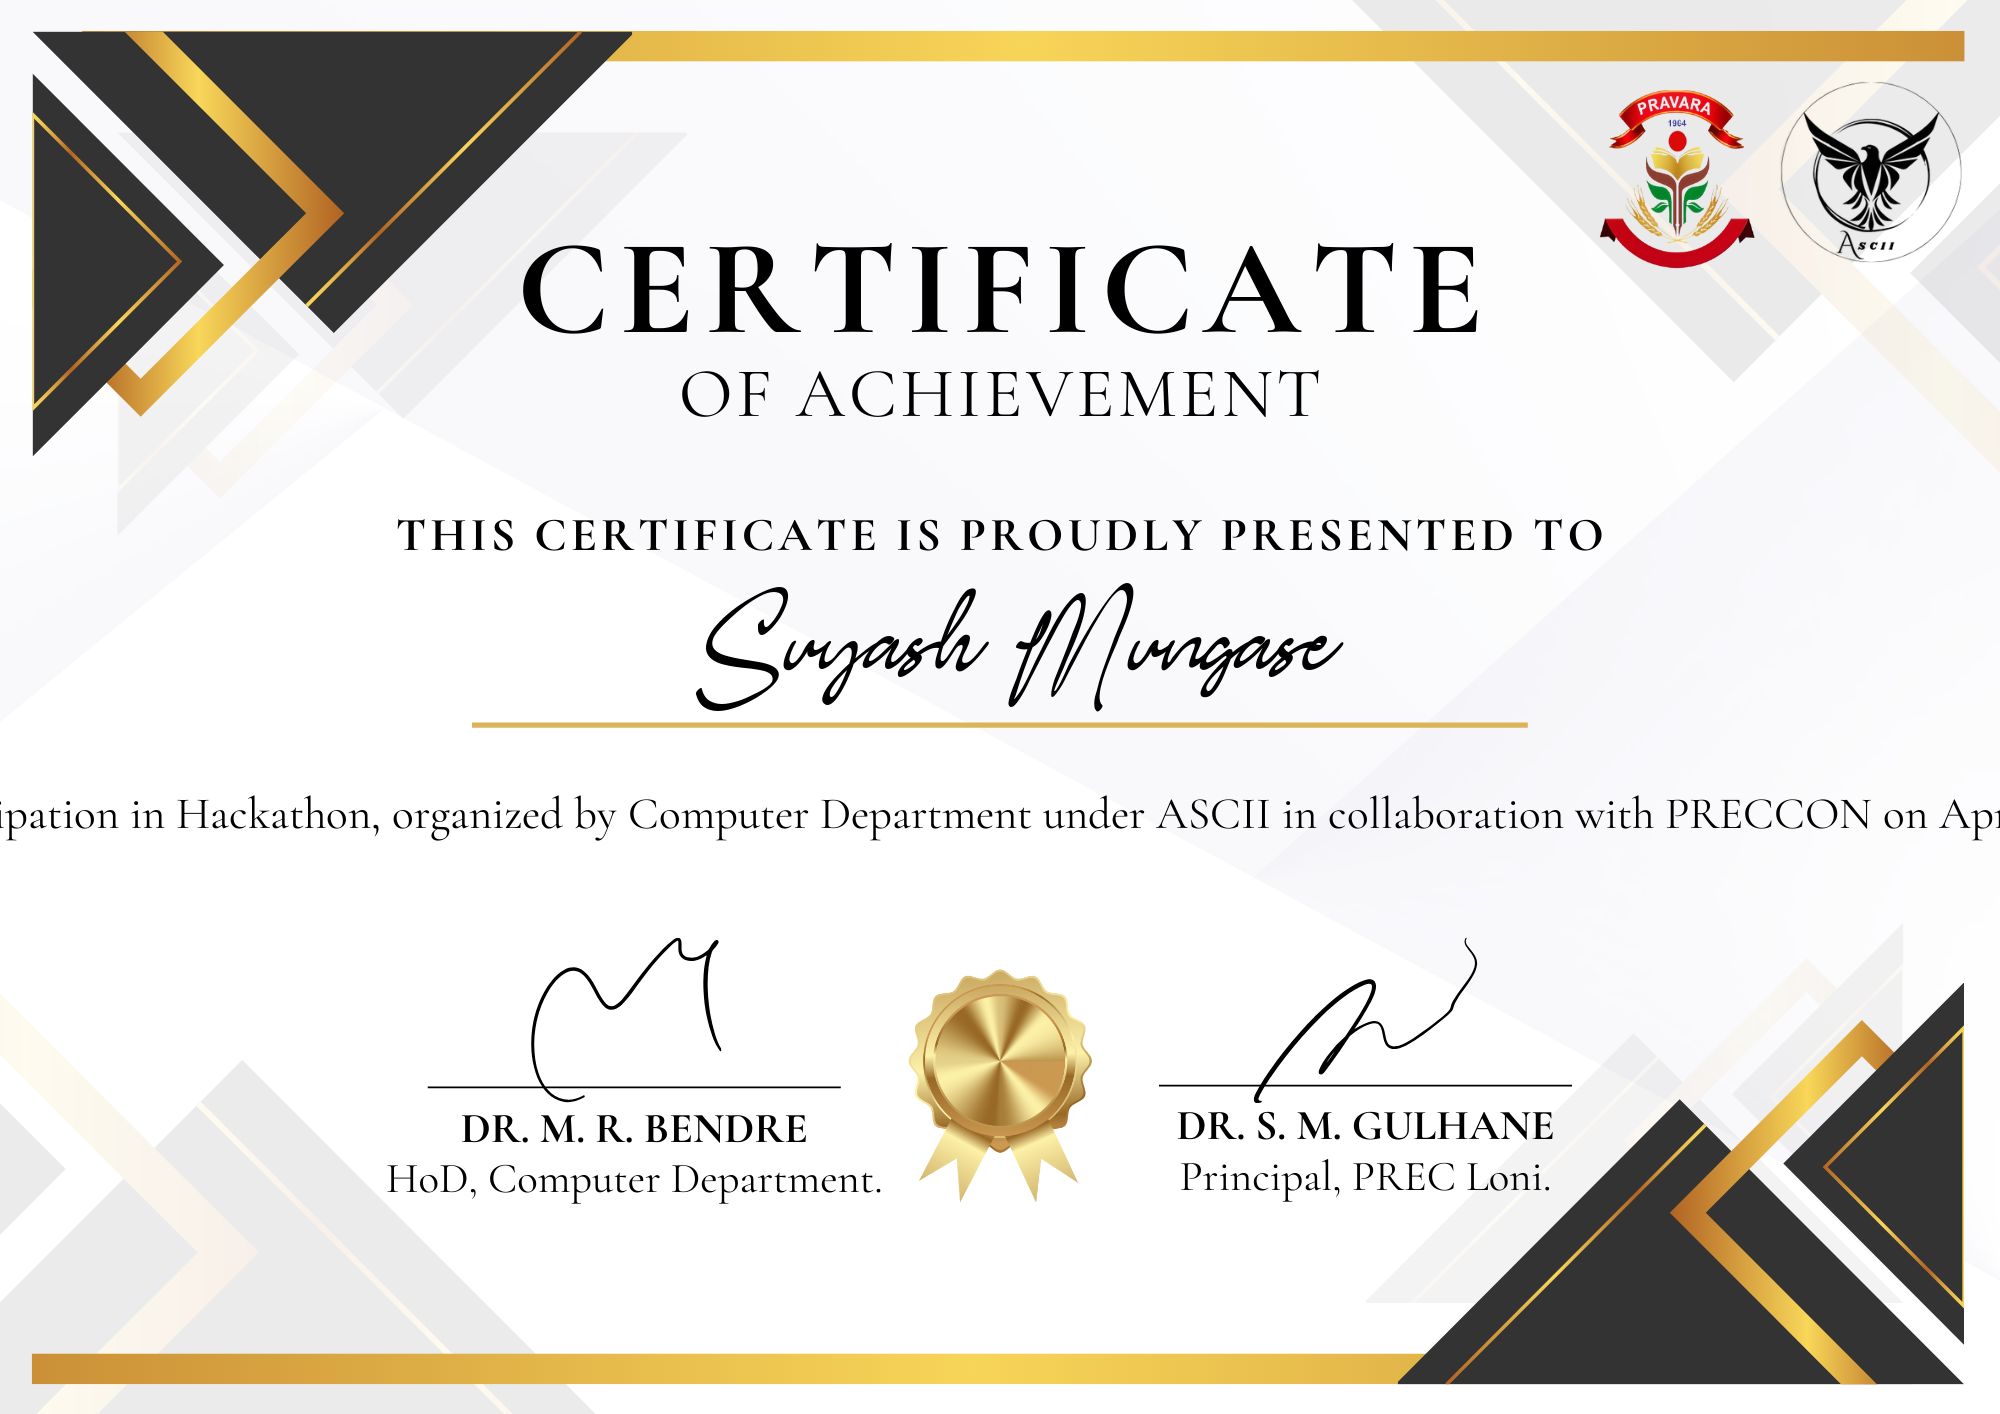
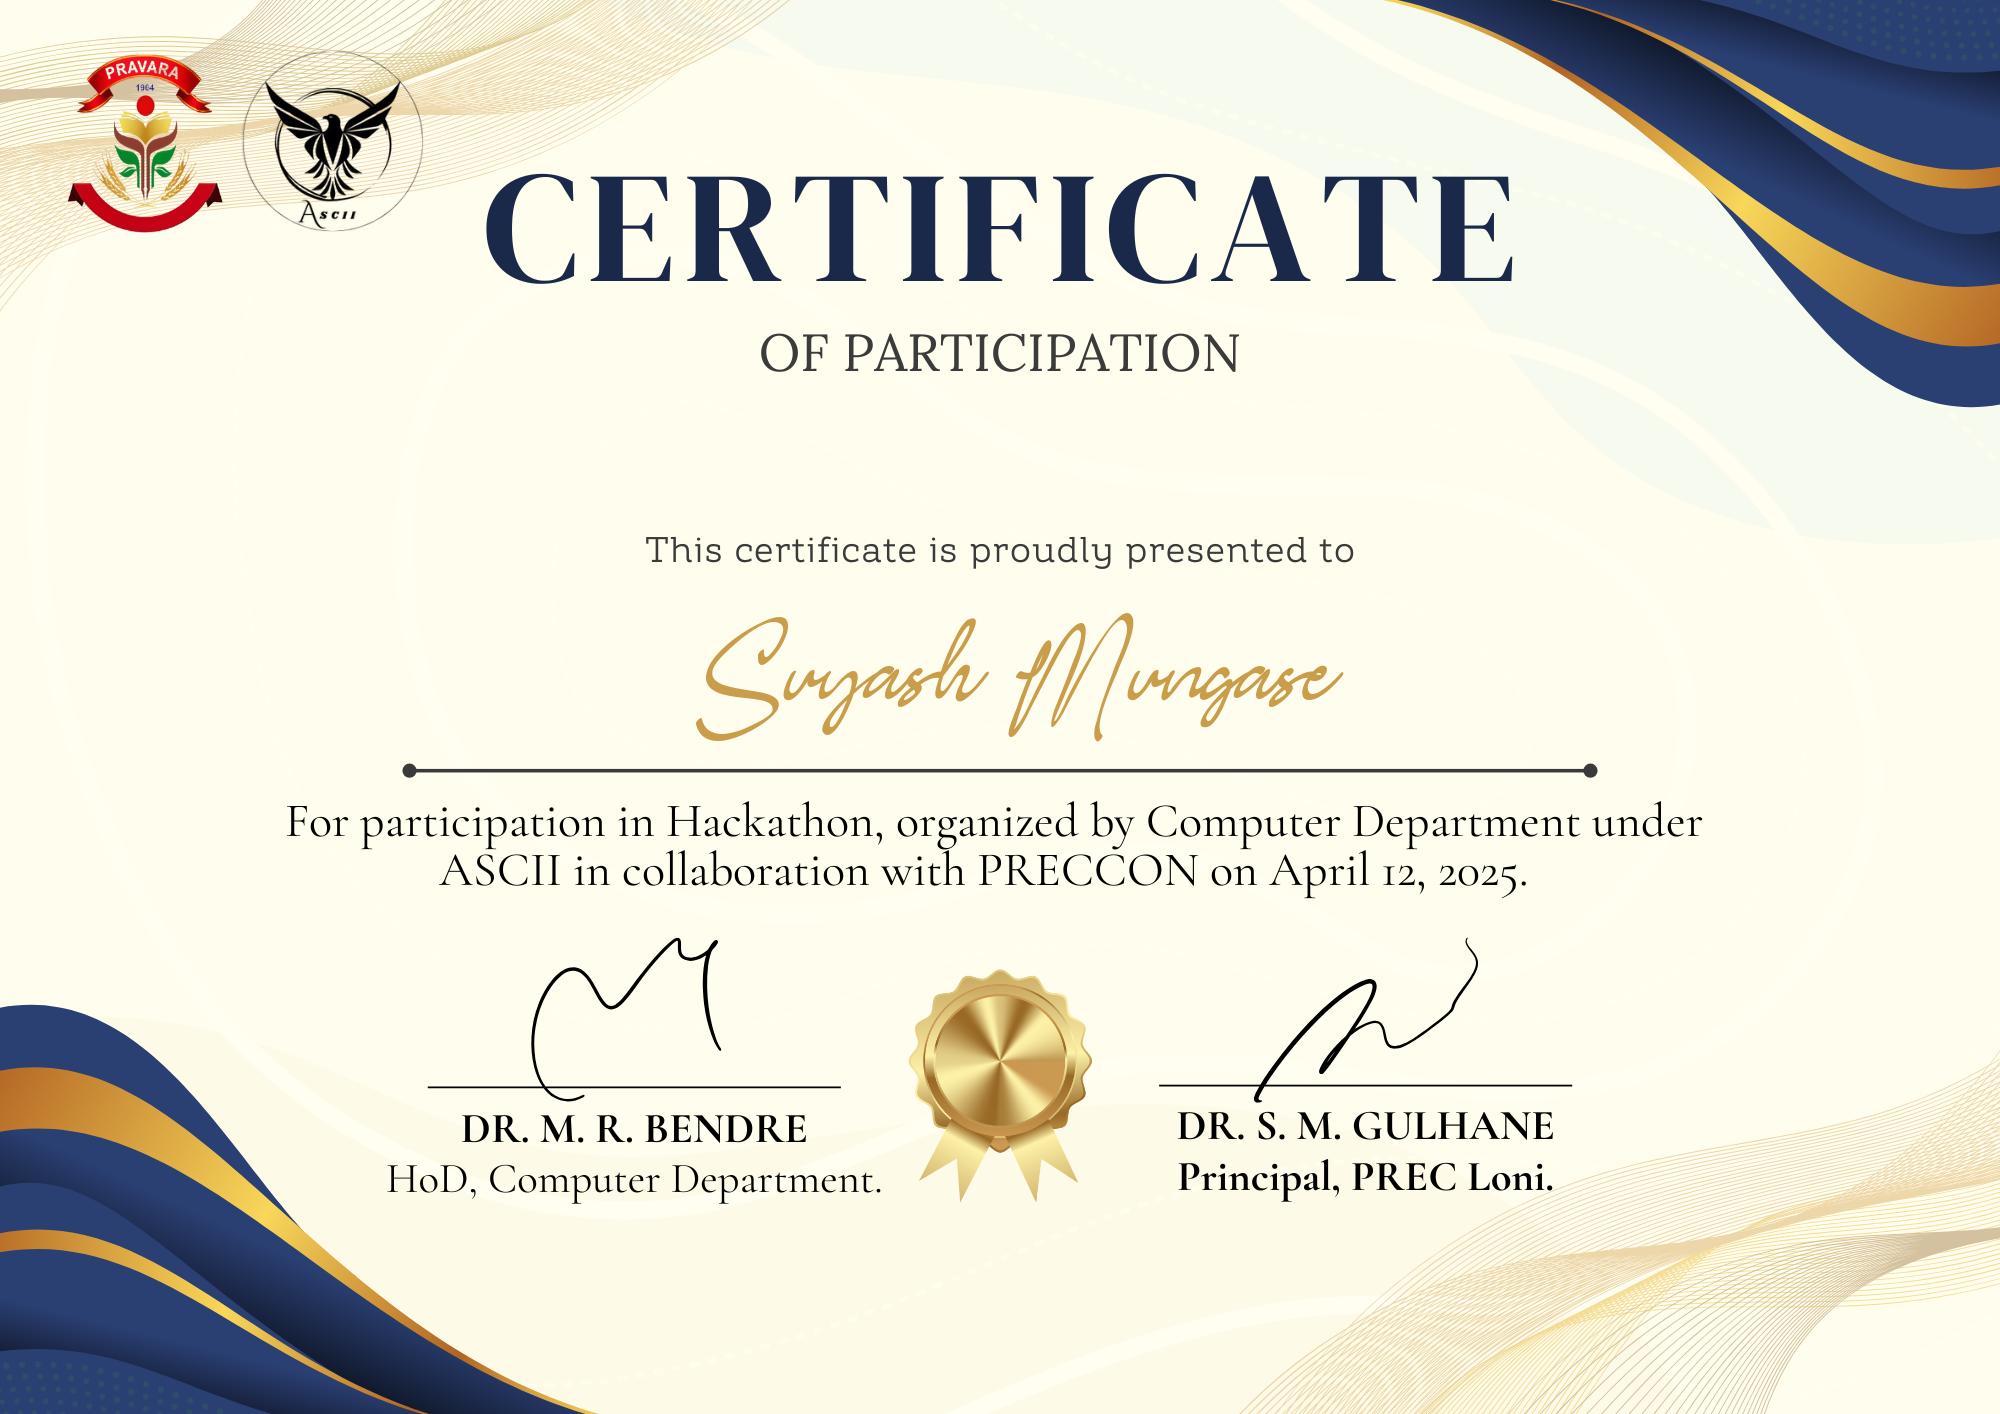
updated

Changed region(s): [[0.0, 0.0, 1.0, 0.3112], [0.0, 0.6846, 1.0, 1.0], [0.0, 0.3734, 1.0, 0.6223]]

diff --git a/Certificate_Generation.py b/Certificate_Generation.py
@@ -15,7 +15,7 @@ st.sidebar.header("Upload and Configure")
 uploaded_file = st.sidebar.file_uploader("Upload CSV", type=["csv"])
 email_address = st.sidebar.text_input("Your Email Address")
 email_password = st.sidebar.text_input("Your App Password", type="password")
-template_path = st.sidebar.text_input("Certificate Template Path", "Final_1.png")
+template_path = st.sidebar.text_input("Certificate Template Path", "ASCII_CERTIFICATE.png")
 
 # Custom message
 st.sidebar.header("Customize Message")
@@ -32,7 +32,7 @@ if st.button("Generate and Send Certificates"):
     if uploaded_file and email_address and email_password:
         # Load fonts
         font_name = ImageFont.truetype("Fonts/Shelley.ttf", 175)
-        font_event_description = ImageFont.truetype("Fonts/Cormorant.ttf", 45)
+        font_event_description = ImageFont.truetype("Fonts/Cormorant.ttf", 48)
 
         # Make sure 'certificates' folder exists
         os.makedirs("certificates", exist_ok=True)
@@ -48,8 +48,8 @@ if st.button("Generate and Send Certificates"):
             draw = ImageDraw.Draw(cert)
 
             # Example coordinates - adjust to your layout
-            name_position = (1020, 640)
-            event_position = (1000, 813)
+            name_position = (1020, 670)
+            event_position = (1000, 845)
 
             # Draw name and event
             draw.text(name_position, name, font=font_name, fill="#C99D49", anchor="mm")
